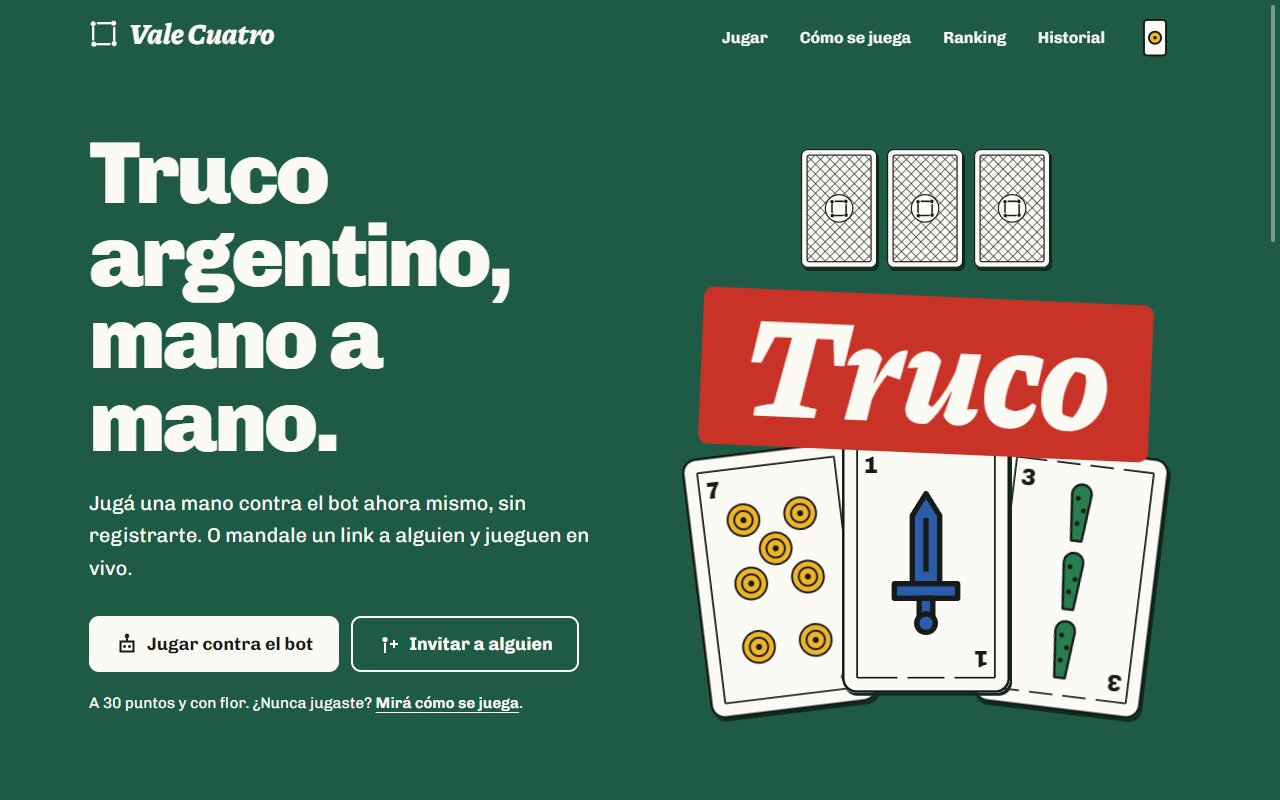
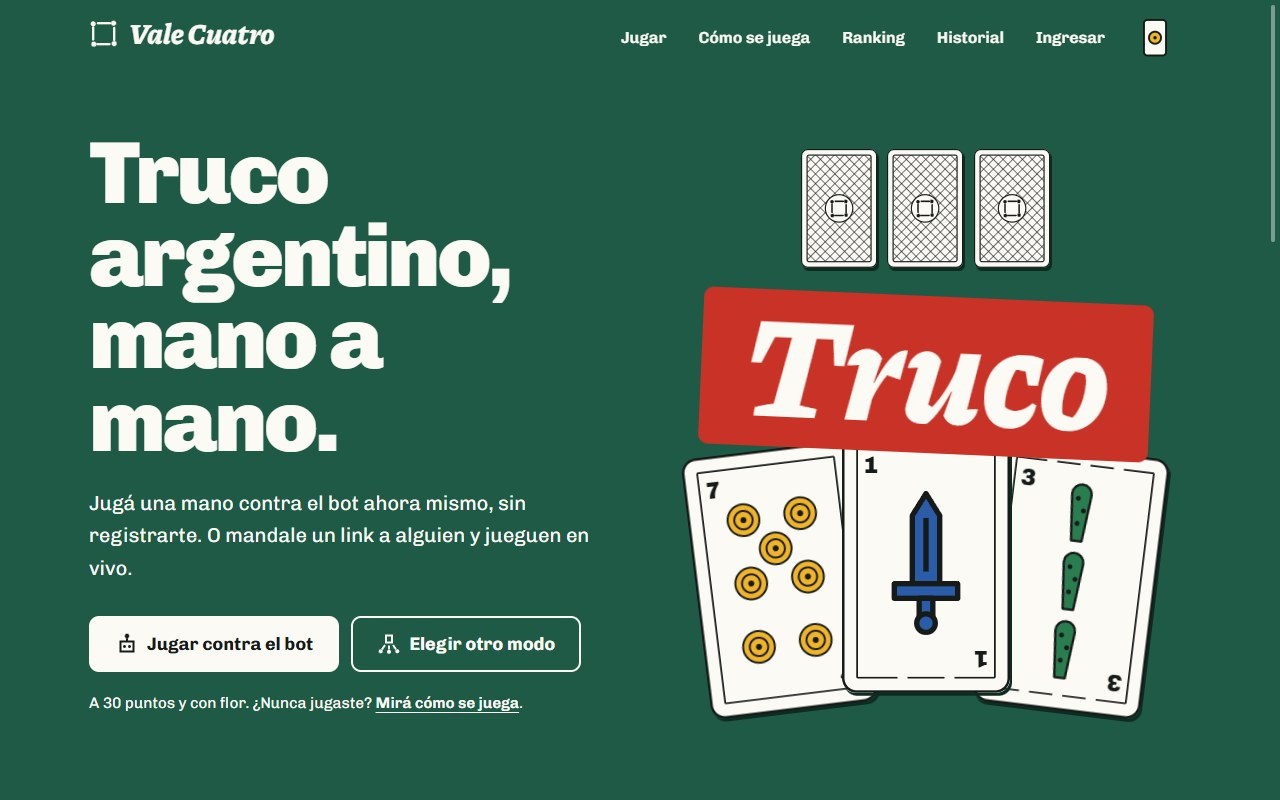
M11: decisiones de la pasada de celular y capturas de la portada y el ranking a 360 px

Changed region(s): [[0.4688, 0.0312, 0.875, 0.0625], [0.2812, 0.7812, 0.4688, 0.8438], [0.125, 0.7812, 0.1562, 0.8125]]

diff --git a/docs/decisiones.md b/docs/decisiones.md
@@ -306,3 +306,25 @@ El reglamento no decía qué pasa en estos casos y el motor necesitaba una respu
 
 - **Se eligió (decidido por Román):** la carta elegida queda a pleno y las demás se apagan, que es lo que ya hace el sitio con la carta que pierde una baza. No suben ni bajan, ni al elegir ni al pasar el mouse. Quedan el reparto al cargar y la carta que se da vuelta al final.
 - **Un detalle que apareció al probar con tres cartas:** si las cartas van encimadas, una carta apagada se transparenta sobre la de al lado. Por eso, cuando hay varias, van separadas y el detalle del juego pasa abajo de la mano.
+
+## El sitio en el celular (pasada del 5 de octubre de 2026)
+
+### La portada entra en la primera pantalla
+
+- **Problema:** en el celular la mano de cartas y el canto quedaban abajo de todo el texto: al abrir el sitio se veían un título y dos botones, y lo propio del sitio recién aparecía deslizando.
+- **Se eligió:** en el celular la mano va entre el título y el botón, más chica y sin los dorsos del rival. A 360 por 640 entran el título, las cartas, "Jugar contra el bot" y las dos salidas. El escritorio no cambió.
+- **Cómo:** el bloque de texto se desarma en el celular (`display: contents`) y cada pieza toma su orden. No hay dos copias de la mano.
+- **"Invitar a alguien" mentía:** era un segundo botón del mismo formulario y entraba a la mesa contra el bot. Ahora es un link a `/modos`, donde se elige el rival. Hay un test que cuenta un solo botón que entra a la mesa.
+
+### Nada acompaña el scroll
+
+- **Problema:** en el ranking, "Tu puesto" iba pegado al borde de abajo y tapaba la tabla mientras se recorría.
+- **Se eligió (decidido por Román):** queda quieto al final de la tabla, en el celular y en el escritorio. Un test revisa que ninguna página de lectura tenga algo pegado o fijo.
+
+### Las listas, compactas
+
+- **Las cuatro que mandan** (portada, ranking y cómo se juega) van en un solo renglón también en el celular: el orden se lee de izquierda a derecha y ocupa la mitad. Debajo de cada carta, el número arriba y el nombre abajo.
+- **Historial:** en el celular cada partida son dos renglones (resultado y "Ver de nuevo"; contra quién y cuándo). El tanteo en fósforos repetía el resultado y entra recién desde el ancho de tablet.
+- **Repetición:** los tres controles van en un renglón, de igual ancho, para que no salten cuando el del medio cambia de texto.
+- **Tabla del envido:** tenía un ancho mínimo y en el celular obligaba a deslizar de costado para ver cuánto vale cada canto. Ahora entra: el canto largo baja de renglón.
+- **El menú de arriba** pasa a ser el desplegable hasta 1024 px: a 768 los links no entraban y "Cómo se juega" se partía en tres renglones.

diff --git a/README.md b/README.md
@@ -27,6 +27,10 @@ Proyecto de portfolio de Román Gonzalez.
 |---|---|
 | ![El juego que ya se juega, con su carta, y los que faltan en el mazo](docs/capturas/modos.jpeg) | ![La misma pantalla a 360 px](docs/capturas/modos-celular.jpeg) |
 
+| Portada en el celular | Ranking en el celular |
+|---|---|
+| ![A 360 px entran el título, la mano y el botón para jugar](docs/capturas/portada-celular.jpeg) | ![Los cuatro primeros, cada uno con su carta, en un renglón](docs/capturas/ranking-celular.jpeg) |
+
 ## Qué es real y qué es simulado
 
 - **Simulado, y dicho abiertamente en el sitio:** los rivales bot y los jugadores de ejemplo del ranking, que aparecen marcados como bots.
